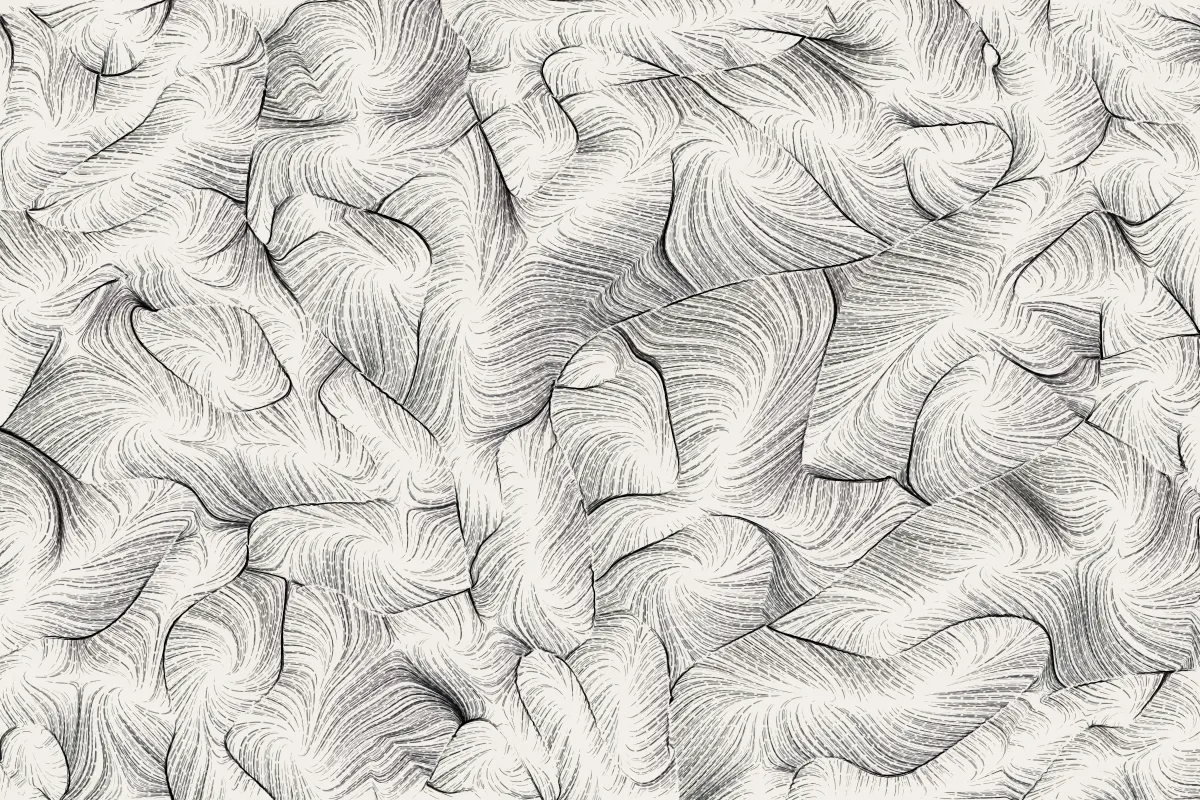
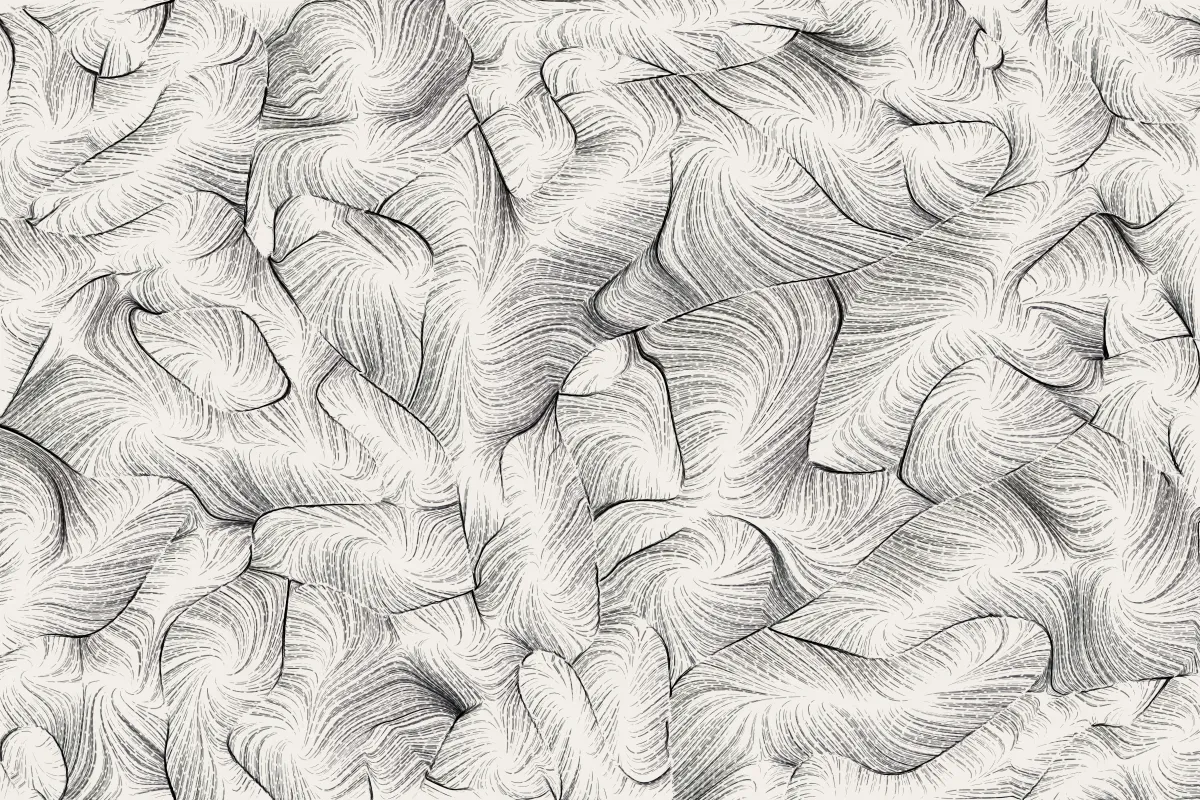
deploy: Jermolene/blog@f9c5eefcf9fea40c31e82cf4dff87720fd78f26c

diff --git a/toys/flowing-field/index.html b/toys/flowing-field/index.html
@@ -38,6 +38,9 @@
   color-scheme:dark;
 }
 [hidden]{display:none!important}
+/* Keep iOS from selecting the page on taps and long presses */
+body{-webkit-user-select:none;user-select:none;-webkit-touch-callout:none}
+input,textarea{-webkit-user-select:text;user-select:text}
 html,body{height:100%;overflow:hidden}
 body{background:var(--ink);color:var(--rice);font-family:var(--f-body);-webkit-font-smoothing:antialiased;touch-action:none}
 canvas#c{position:fixed;inset:0;width:100%;height:100%;display:block;cursor:grab}
@@ -674,6 +677,8 @@ const toW=(x,y)=>{const m=Math.min(cssW,cssH);return{x:(x-cssW/2)/m*2/view.z+vie
 function setMode(m){mode=m;cv.classList.toggle('stroking',m==='stroke');cv.classList.toggle('panning',m==='pan'||m==='pinch');handDown=m==='stroke'}
 cv.addEventListener('contextmenu',e=>e.preventDefault());
 cv.addEventListener('pointerdown',e=>{
+  // a trackpad or mouse press would otherwise start a text selection that tints the canvas on iPad
+  e.preventDefault();
   initAudio();cv.setPointerCapture(e.pointerId);
   ptrs.set(e.pointerId,{x:e.clientX,y:e.clientY,t:e.timeStamp});
   if(ptrs.size===1)setMode(e.button!==0||e.shiftKey?'pan':'stroke');

diff --git a/toys/sw.js b/toys/sw.js
@@ -25,7 +25,7 @@ responses can still be stored.
 "use strict";
 
 self.PRECACHE = {
-	"version": "fc6f92fa72666b34",
+	"version": "c26f05d5bc424e70",
 	"urls": [
 		"/toys/",
 		"/toys/animal-island/apple-touch-icon.png",
